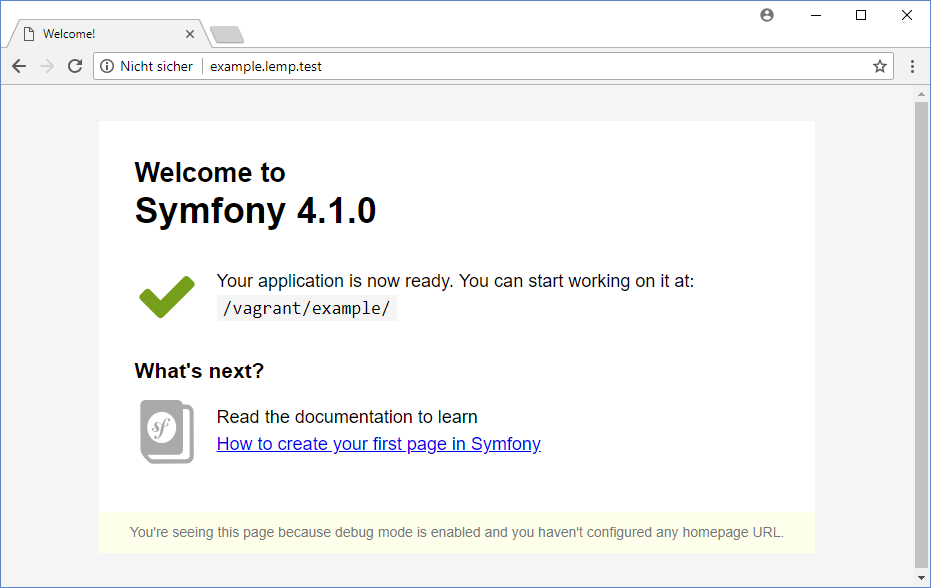
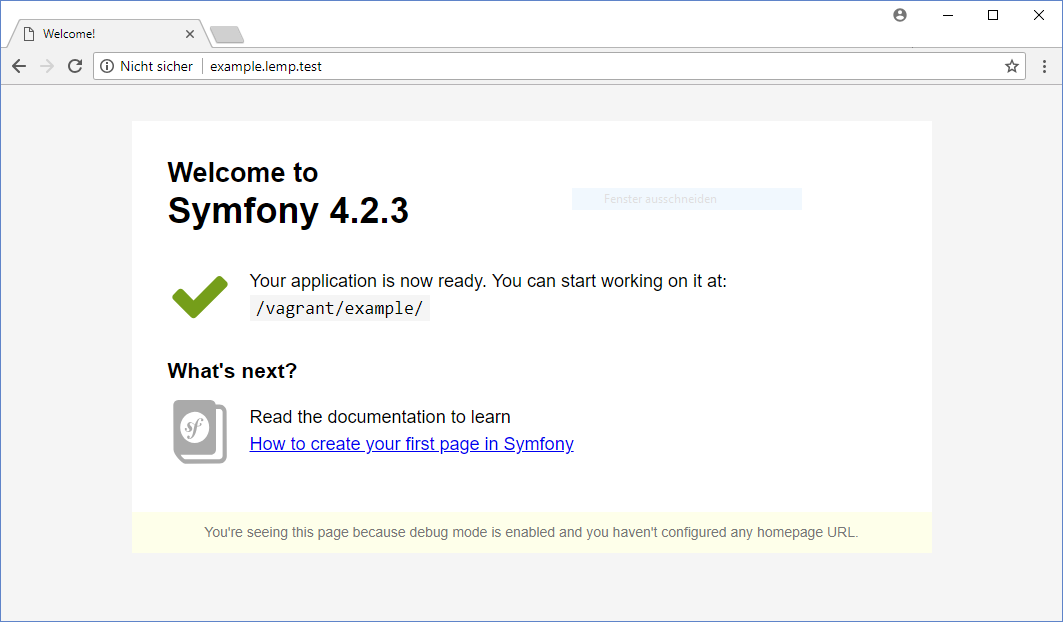
Updated documentation

diff --git a/README.md b/README.md
@@ -8,16 +8,16 @@ This is a development environment for [Symfony](https://symfony.com/) projects o
 
 | Software | Debian Jessie | Debian Stretch | Tested   |
 |----------|---------------|----------------|----------|
-| Debian   | 8.11          | 9.5            | &#10003; |
-| Nginx    | 1.14.0        | 1.14.0         | &#10003; |
-| MySQL    | 5.5.60        | -              | &#10003; |
-| MariaDB  | -             | 10.1.26        | &#10003; |
+| Debian   | 8.11          | 9.6            | &#10003; |
+| Nginx    | 1.14.2        | 1.14.2         | &#10003; |
+| MySQL    | 5.5.62        | -              | &#10003; |
+| MariaDB  | -             | 10.1.37        | &#10003; |
 | Redis    | 2.8.17        | 3.2.6          | &#10003; |
-| PHP      | 7.2           | 7.2            | &#10003; |
-| PHPUnit  | 7.4.3         | 7.4.3          | &#10003; |
-| Composer | 1.7.2         | 1.7.2          | &#10003; |
-| Node.js  | 8.12.0        | 8.12.0         | &#10003; |
-| Symfony  | 3.4 or 4.1    | 3.4 or 4.1     | &#10003; |
+| PHP      | 7.3           | 7.3            | &#10003; |
+| PHPUnit  | 8.0.4         | 8.0.4          | &#10003; |
+| Composer | 1.8.4         | 1.8.4          | &#10003; |
+| Node.js  | 8.15.0        | 8.15.0         | &#10003; |
+| Symfony  | 3.4 or 4.2    | 3.4 or 4.2     | &#10003; |
 
 ## Requirements
 
@@ -74,13 +74,13 @@ Check the config.yml if you want to modify the following settings.
 
 ```yaml
 configs:
-    os: "9.5"                       # Choose between 8.11 and 9.5 (change requires: vagrant destroy & vagrant up)
+    os: "9.6"                       # Choose between 8.11 and 9.6 (change requires: vagrant destroy & vagrant up)
     private_ip: "192.168.56.111"    # VM IP in your host-only-network
     vmname: "symfony-development"   # VM name for Virtualbox
     servername: "lemp.test"         # Servername and domain for your projects
     projectnames:                   # Comma-separated list with your symfony projectnames (change requires: vagrant provision & vagrant hostmanager)
       - example                     # Generated URL => example.lemp.test
-    symfony_version: 4.1            # Symfony version like 4.1 or 3.4
+    symfony_version: 4.2            # Symfony version like 4.2 or 3.4
 ```
 
 Every servername or projectname change needs an update of your local hostfile.
@@ -92,10 +92,6 @@ vagrant hostmanager
 ## Screenshot
 
 ![Image](docs/screenshot.png)
-
-## Changelog
-
-The changelog is available [here](docs/changelog.md).
 
 ## Feedback, Issues and Pull-Requests
 
